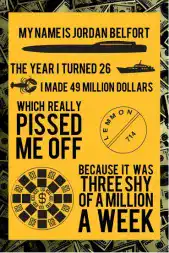
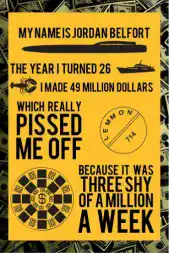
javascript maj image on click

diff --git a/index.html b/index.html
@@ -7,9 +7,12 @@
     <meta name="viewport" content="width=device-width, initial-scale=1.0">
     <title>Croc d'Or</title>
     <link rel="stylesheet" href="src/css/style.css">
+    <script src="https://animejs.com/lib/anime.min.js"></script>
+	<script defer="" src="https://unpkg.com/alpinejs@3.2.2/dist/cdn.min.js"></script>
+    <script src="src/js/fonctions.js"></script>
 </head>
 
-<body class=" ">
+<body>
     <header class="header">
         <div class="debut__header">
             <h1 class="titre1"><a class="titre__lien" href="index.html">Croc d'or</a></h1>
@@ -92,10 +95,19 @@
         <p class="paragraphe__video">Vidéo de la réplique</p>
     </div>
 
-    <div class="bloc__img">
-        <img class="img1" src="public/img/affiche_caricature.webp" alt="affiche carricaturale 1">
-        <img class="img2" src="public/img/affiche_caricature-1.webp" alt="affiche carricaturale 2">
+
+<div x-data="{animation: true}" class="animation__image">
+    <div x-on:click="animation ? animation=false : animation=true;"class="bloc__img" >
+        <img x-show="animation"class="image__anime1" src="public/img/affiche_caricature.webp" alt="affiche carricaturale 1">
     </div>
+
+    <div x-on:click="animation ? animation=false : animation=true;"class="bloc__img">
+        <img x-show="!animation" class="image__anime2" src="public/img/affiche_caricature-1.webp" alt="affiche carricaturale 2">
+    </div>
+</div>
+
+
+
 
     <div class="ligne__separation">
 

diff --git a/src/fonction.js b/src/fonction.js
@@ -40,41 +40,3 @@ function carrousel() {
     });
 }
 
-/*function carrousel() {
-	var images15 = document.querySelectorAll('.image');
-    let d = 2000;
-    let delta = 1000;
-
-    images15.forEach(function(img,indice) {
-        img.style.zIndex = images15.length - indice;
-    });
-
-    let anim15 = anime.timeline({
-        loop: true,
-        delay: 0
-    });
-
-    anim15.add({
-        targets: images15,
-        translateX: [{value: '500', duration: d},
-                     {value: '-500', duration: 0, delay: function(img,ind) {
-                         if (ind == 0) return (4*delta)+(3*d);
-                         if (ind == 1) return (3*delta)+(2*d);
-                         if (ind == 2) return (2*delta)+d;
-                         if (ind == 3) return delta;
-                         return 0;
-                     }},
-                     {value: '0', duration: function(img,ind) {
-                         if (ind == 4) return 0;
-                         return d;
-                     }}],
-        easing: 'linear',
-        delay: function(img,ind) {
-            if (ind == 0) return delta;
-            if (ind == 1) return (2*delta)+d;
-            if (ind == 2) return (3*delta)+(2*d);
-            if (ind == 3) return (4*delta)+(3*d);
-            return (5*delta)+(4*d);
-        }
-    });
-}*/

diff --git a/article_livre.html b/article_livre.html
@@ -250,16 +250,17 @@
         </p>
     </div>
 
+
     <div class="bloc__livreauteur">
         <p class="paragraphe__livreauteur">
-            <a class="livrewayofthewolf"
-                href="https://books.google.fr/books?id=-wRNvgAACAAJ&printsec=frontcover&hl=fr&source=gbs_ge_summary_r&cad=0#v=onepage&q&f=false"
-                target="_blank">
+            <p class="paragraphe__lienlivreauteur">
                 The Way Of the Wolf (lien)
-            </a>
+                </a>
+            </p>
         </p>
         <img src="public/img/livre_the_way_of_the_wolf_1.webp" alt="couverture du livre the way of the wolf">
     </div>
+        
     <div class="bloc__credit">
         <p class="credit">Crédit : books.google</p>
     </div>

diff --git a/src/css/base/media.css b/src/css/base/media.css
@@ -28,14 +28,6 @@ img {
     margin-bottom: 30px;
 }
 
-.img1{
-    margin-right: 1.8%;
-}
-
-.img2{
-    margin-left: 1.8%;
-}
-
 .ligne__separation{
     background-color: var(--bordeau);
     width: 80%;
@@ -99,3 +91,4 @@ img {
     top: 50%;
     left: 27%;
 }
+
